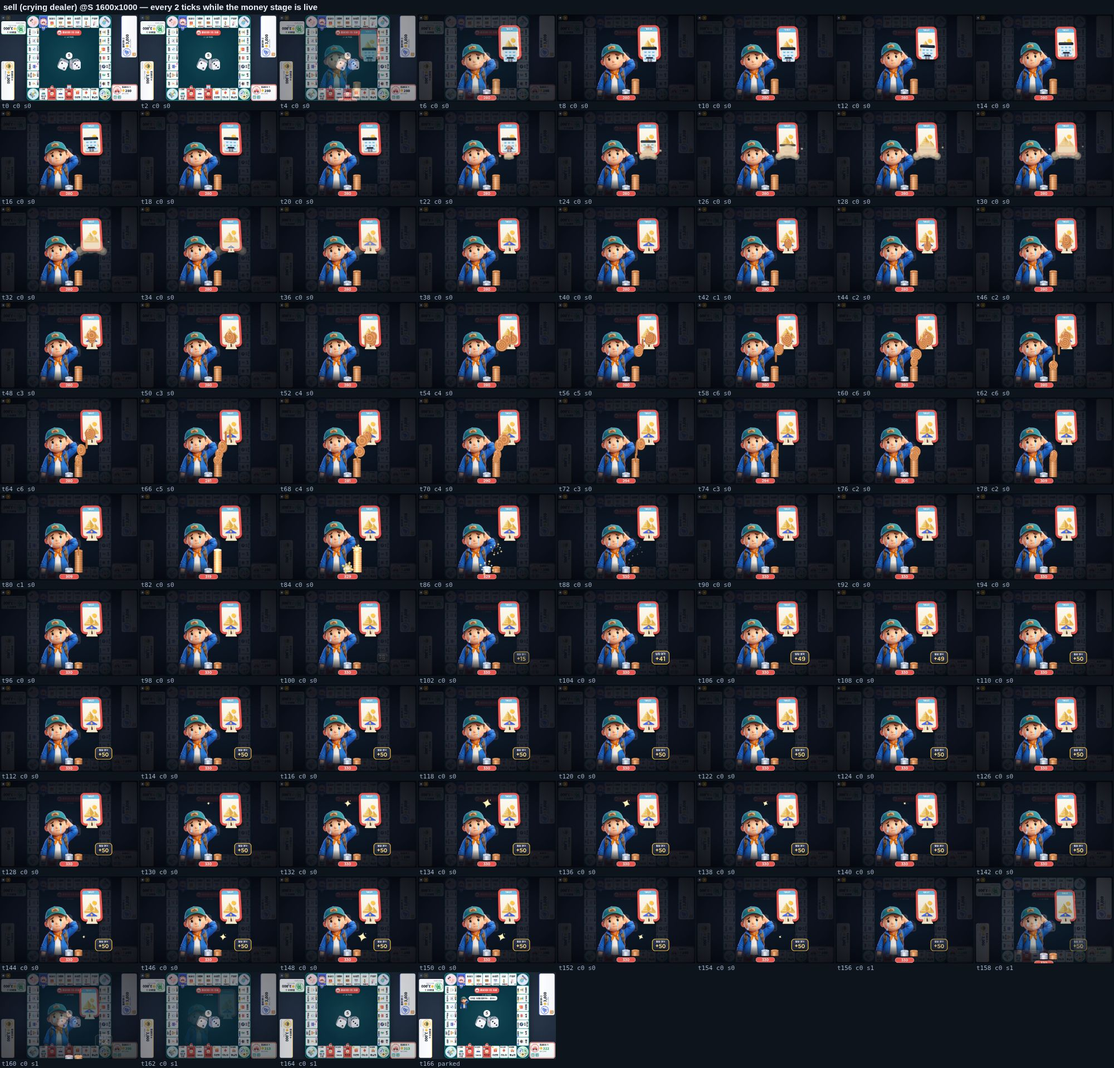
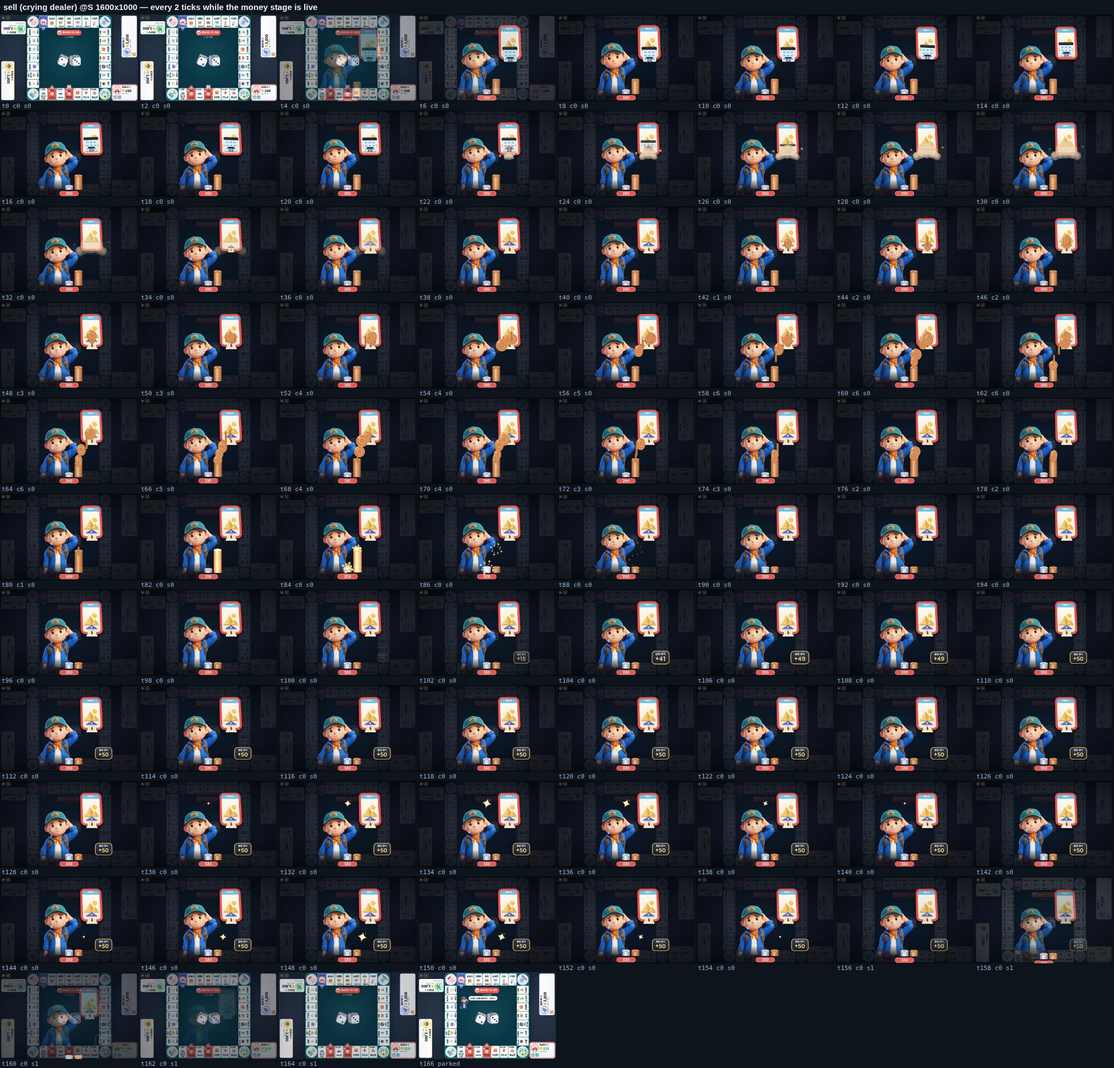
test: sell cut-in tears checked on the lids of the sob phase on show [skip ci]
The probe reads the sob sheet (.mh-crier-sob, replacing .mh-crier-img) and its phase from
background-position; a stream must start within ±3 % of SAD_EYES.y + headDy[phase] / 320.
Every tier (high/mid/low), seat N and the filmstrips must sample at least two phases, one of
them phase 5 (the head 4.1 % up, beyond the tolerance, so tears that stayed put would fail);
the filmstrip shows all 6 phases. Reduced motion: phase 0 only, and the still drops are
compared within 1 % of the sprite (the hero's out rounded their box by a pixel and flipped a
two-decimal string compare). Sell screenshots and filmstrips refreshed.

Claude-Session: https://claude.ai/code/session_01MFt13innfkDrSn1TMCBrcB

diff --git a/e2e/money-events.spec.ts b/e2e/money-events.spec.ts
@@ -13,6 +13,7 @@ import { mkdirSync, writeFileSync } from 'node:fs';
 import { expect, test, type Page } from '@playwright/test';
 import { boot, watchConsole } from './helpers';
 import { reduceMotion } from './motion';
+import { SOB, SOB_SHEET } from '../src/content/fx/sob-sheet';
 
 interface LogEntry {
   stillMs: number;
@@ -589,11 +590,21 @@ test.describe('a cut-in cut short (review round 1)', () => {
  */
 const DEBT = `s.players[me].position = 12; s.players[me].cash = 280; s.properties[4] = { owner: me, level: 2 }; s.properties[6] = { owner: me, level: 1 }; s.properties[17] = { owner: other(1), level: 1 }; s.testHooks = { diceQueue: [[2, 3]] };`;
 
-/** The sad sprite's lower eyelids (fractions of the sprite; scenes.ts SAD_EYES, measured on public/dealer/sad.webp). */
+/**
+ * The sad sprite's lower eyelids (fractions of the sprite; scenes.ts SAD_EYES, measured on
+ * public/dealer/sad.webp). In a sob frame the rigid head, and so the lids, sit SOB.headDy[phase]
+ * sprite px lower (docs/MONEY-EVENTS.md §14.5).
+ */
 const EYES = [{ x: 0.405, y: 0.398 }, { x: 0.548, y: 0.374 }];
+const lidDy = (phase: number): number => SOB.headDy[phase]! / SOB.cell;
+/** The sob phase a probe saw (cell p of n sits at background-position p / (n − 1)). */
+const phaseOf = (p: CryProbe): number => Math.round((p.pos / 100) * (SOB.cells - 1));
 
 interface CryProbe {
+  /** The sob sheet (background-image). */
   src: string;
+  /** background-position x (%): the sheet cell on show is `phaseOf`. */
+  pos: number;
   /** Sprite box on screen (px). */
   w: number;
   /** Tear streams: top / bottom centre relative to the sprite box, and grown (> 0 px tall). */
@@ -602,9 +613,9 @@ interface CryProbe {
   drops: Array<{ x: number; y: number }>;
 }
 
-/** Where the tears are on the crying dealer (relative to the sprite's box on screen). */
+/** Where the tears are on the crying dealer (relative to the sprite's box on screen), and the sob phase. */
 function cryProbe(): CryProbe | null {
-  const img = document.querySelector<HTMLElement>('.money-stage .mh-crier-img');
+  const img = document.querySelector<HTMLElement>('.money-stage .mh-crier-sob');
   if (!img) return null;
   const r = img.getBoundingClientRect();
   if (!r.width) return null;
@@ -612,8 +623,10 @@ function cryProbe(): CryProbe | null {
     const b = e.getBoundingClientRect();
     return { x: (b.left + b.width / 2 - r.left) / r.width, y: (b.top - r.top) / r.height, yb: (b.bottom - r.top) / r.height, cy: (b.top + b.height / 2 - r.top) / r.height, h: b.height, o: Number(getComputedStyle(e).opacity) };
   };
+  const cs = getComputedStyle(img);
   return {
-    src: img.getAttribute('src') ?? '',
+    src: cs.backgroundImage,
+    pos: parseFloat(cs.backgroundPositionX),
     w: r.width,
     streams: [...document.querySelectorAll('.money-stage .mh-stream')].map(rel).map((q) => ({ x: q.x, y: q.y, yb: q.yb, h: q.h })),
     drops: [...document.querySelectorAll('.money-stage .mh-tear')].map(rel).filter((q) => q.o > 0.05).map((q) => ({ x: q.x, y: q.cy })),
@@ -621,25 +634,41 @@ function cryProbe(): CryProbe | null {
 }
 
 /**
- * Every grown stream starts on an eye's lower lid; every drop is on the face or falling from it.
+ * Every grown stream starts on an eye's lower lid — where the lid is in this sob phase (the head
+ * moves up and down with the body) — and every drop is on the face or falling from it.
  * `flip`: the hero faces seat N (turned 180° on screen): the sprite's own coordinates are 1 − screen.
  */
 function expectTearsOnFace(p: CryProbe, where: string, flip = false): void {
   const grown = p.streams.filter((q) => q.h > 1);
+  const phase = phaseOf(p);
+  const dy = lidDy(phase);
   expect(grown.length, `${where}: both streams`).toBe(2);
   grown.forEach((q, i) => {
     const x = flip ? 1 - q.x : q.x;
     const y = flip ? 1 - q.yb : q.y;
     expect(Math.abs(x - EYES[i]!.x), `${where}: stream ${i} x ${x.toFixed(3)}`).toBeLessThanOrEqual(0.03);
-    expect(Math.abs(y - EYES[i]!.y), `${where}: stream ${i} y ${y.toFixed(3)}`).toBeLessThanOrEqual(0.03);
+    expect(Math.abs(y - (EYES[i]!.y + dy)), `${where}: phase ${phase} stream ${i} y ${y.toFixed(3)}`).toBeLessThanOrEqual(0.03);
   });
   for (const d0 of p.drops) {
     const d = flip ? { x: 1 - d0.x, y: 1 - d0.y } : d0;
     expect(d.x, `${where}: drop x`).toBeGreaterThan(0.3);
     expect(d.x, `${where}: drop x`).toBeLessThan(0.65);
-    expect(d.y, `${where}: drop y`).toBeGreaterThan(0.33);
-    expect(d.y, `${where}: drop y`).toBeLessThan(0.75);
+    expect(d.y - dy, `${where}: drop y`).toBeGreaterThan(0.33);
+    expect(d.y - dy, `${where}: drop y`).toBeLessThan(0.75);
   }
+}
+
+/**
+ * The tears were checked in at least two sob phases, one of them the stretch (phase 5: the head
+ * 4 % of the sprite above the still, more than the ±3 % tolerance, so tears that stayed put would
+ * have failed there).
+ */
+function expectPhasesSampled(ps: CryProbe[], where: string): void {
+  const seen = new Set(ps.map(phaseOf));
+  expect(seen.size, `${where}: sob phases seen ${[...seen].join(',')}`).toBeGreaterThanOrEqual(2);
+  const far = SOB.headDy.findIndex((d) => Math.abs(d) / SOB.cell > 0.03);
+  expect(far, 'a phase whose head moves more than the tolerance').toBeGreaterThanOrEqual(0);
+  expect(seen.has(far), `${where}: phase ${far} sampled`).toBe(true);
 }
 
 test.describe('selling to the bank: the crying dealer (owner review 2026-10-06)', () => {
@@ -708,13 +737,16 @@ test.describe('selling to the bank: the crying dealer (owner review 2026-10-06)'
       // The hero is the sad dealer, big; tears on the face in every frame they show.
       const probes = shots.map((x) => x.data as CryProbe | null).filter((p): p is CryProbe => !!p);
       expect(probes.length).toBeGreaterThan(6);
-      expect(probes.every((p) => p.src.endsWith('dealer/sad.webp'))).toBe(true);
+      expect(probes.every((p) => p.src.includes(SOB_SHEET)), probes[0]?.src).toBe(true);
+      // He sobs: the sheet steps through all its phases (the head rigid, the body heaving).
+      expect(new Set(probes.map(phaseOf)).size, 'sob phases shown').toBe(SOB.cells);
       expect(Math.max(...probes.map((p) => p.w)), 'the dealer fills about half the short side').toBeGreaterThan(size.h * 0.45);
       const crying = probes.filter((p) => p.streams.some((q) => q.h > 1));
       expect(crying.length, 'crying for most of the cut-in').toBeGreaterThan(probes.length * 0.6);
       expect(crying.some((p) => p.drops.length >= 2), 'drops run down').toBe(true);
       // Fully grown streams (from a few frames in) sit on the eyes.
       crying.slice(4).forEach((p, k) => expectTearsOnFace(p, `frame ${k}`));
+      expectPhasesSampled(crying.slice(4), `${size.w}x${size.h}`);
       // Key frame: the still hold (plaque up, tears running).
       const key = shots[Math.min(shots.length - 1, Math.round(shots.length * 0.75))]!;
       writeFileSync(`${SHOTS}/money-${tag}.png`, Buffer.from(key.img, 'base64'));
@@ -741,10 +773,19 @@ test.describe('selling to the bank: the crying dealer (owner review 2026-10-06)'
       const crying = probes.filter((p) => p.streams.some((q) => q.h > 1));
       expect(crying.length, `${v}: crying`).toBeGreaterThan(probes.length * 0.6);
       crying.slice(4).forEach((p, k) => expectTearsOnFace(p, `${v} frame ${k}`, v === 'N'));
+      // Reduced motion: no sob (phase 0 only, the tears on its lids); else at least two phases.
+      if (v === 'reduced') expect(new Set(crying.map(phaseOf)), `${v}: phase 0 only`).toEqual(new Set([0]));
+      else expectPhasesSampled(crying.slice(4), v);
       if (v === 'reduced') {
-        // No movement: the drops stand still on the cheeks for the whole cut-in (one per eye).
-        const at = crying.slice(4).map((p) => JSON.stringify(p.drops.map((d) => [d.x.toFixed(2), d.y.toFixed(2)])));
-        expect(new Set(at).size, `${v}: drops do not move`).toBe(1);
+        // No movement: the drops stand still on the cheeks for the whole cut-in (one per eye). Within
+        // 1 % of the sprite: the hero's out (it shrinks away) rounds their box by a pixel.
+        const ref = crying[4]!.drops;
+        crying.slice(4).forEach((p, k) => {
+          expect(p.drops.length, `${v} frame ${k}: drops`).toBe(ref.length);
+          p.drops.forEach((d, i) => {
+            expect(Math.abs(d.x - ref[i]!.x) + Math.abs(d.y - ref[i]!.y), `${v} frame ${k}: drop ${i} does not move`).toBeLessThanOrEqual(0.01);
+          });
+        });
         expect(crying[4]!.drops.length).toBe(2);
         // Same time on screen: the frames the stage was live, like a normal cut-in.
         expect(shots.length * EVERY, `${v}: ticks live`).toBeGreaterThan(90);
